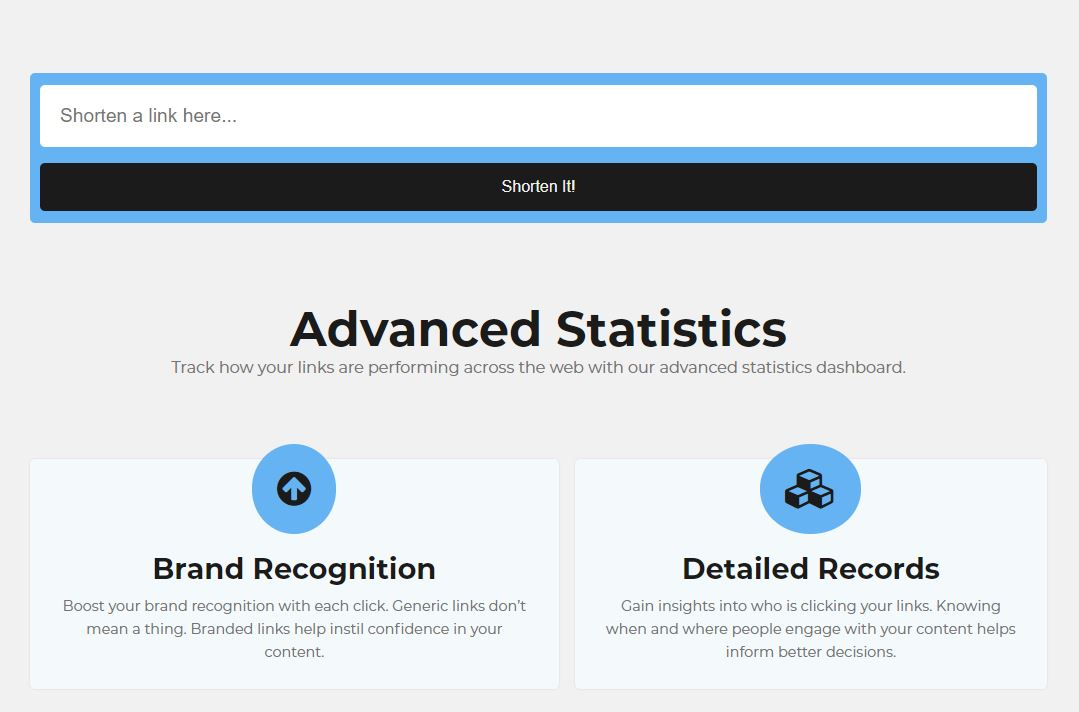
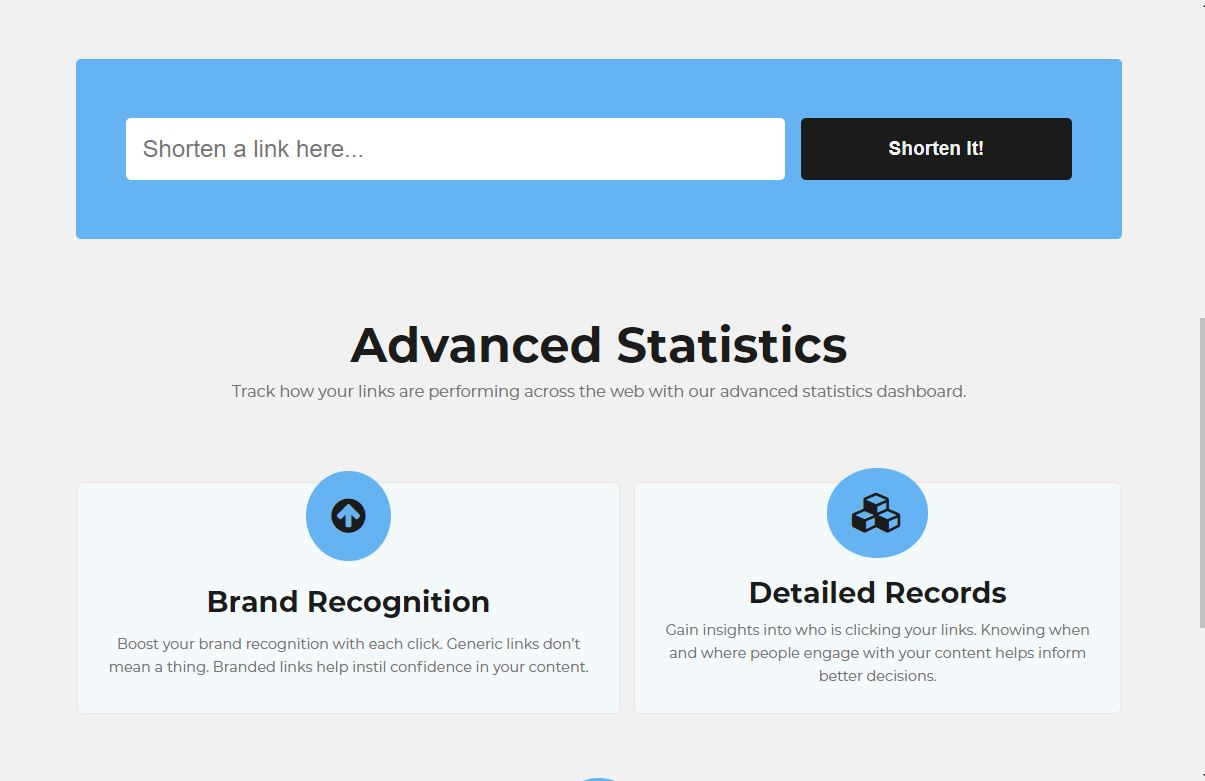
Update Shrink Container and Change Screenshot

diff --git a/styles/index.scss b/styles/index.scss
@@ -50,6 +50,7 @@ button{
     color: var(--primary);
     font-size: 1.2rem;
     font-weight: 750!important;
+    border-radius: 5px;
     
     &:hover{
         cursor: pointer;
@@ -310,6 +311,7 @@ img{
                     padding: 10px;
                     line-height: 33px;
                     margin-top: -2rem;
+                    margin-bottom: .5rem;
                 }
 
                 p{
@@ -401,7 +403,7 @@ img{
 
         .shortly-container{
             height: 180px;
-            width: 80%;
+            width: 92%;
             justify-self: center;
             flex-direction: row;
             padding: 50px;
@@ -410,6 +412,11 @@ img{
                 margin-bottom: 1rem;
                 width: 40%;
                 margin-left: 1rem;
+            }
+
+            input{
+                font-size: 1.5rem;
+                padding: 17px;
             }
         }
         .service-container{

diff --git a/styles/index.css b/styles/index.css
@@ -50,6 +50,7 @@ button {
   color: var(--primary);
   font-size: 1.2rem;
   font-weight: 750 !important;
+  border-radius: 5px;
 }
 
 button:hover {
@@ -328,6 +329,7 @@ img {
   padding: 10px;
   line-height: 33px;
   margin-top: -2rem;
+  margin-bottom: .5rem;
 }
 
 .main .service-container .content .intro p {
@@ -387,7 +389,7 @@ img {
   }
   .main .shortly-container {
     height: 180px;
-    width: 80%;
+    width: 92%;
     -ms-grid-column-align: center;
         justify-self: center;
     -webkit-box-orient: horizontal;
@@ -400,6 +402,10 @@ img {
     margin-bottom: 1rem;
     width: 40%;
     margin-left: 1rem;
+  }
+  .main .shortly-container input {
+    font-size: 1.5rem;
+    padding: 17px;
   }
   .main .service-container {
     margin: 7rem 3rem 0 3rem;
